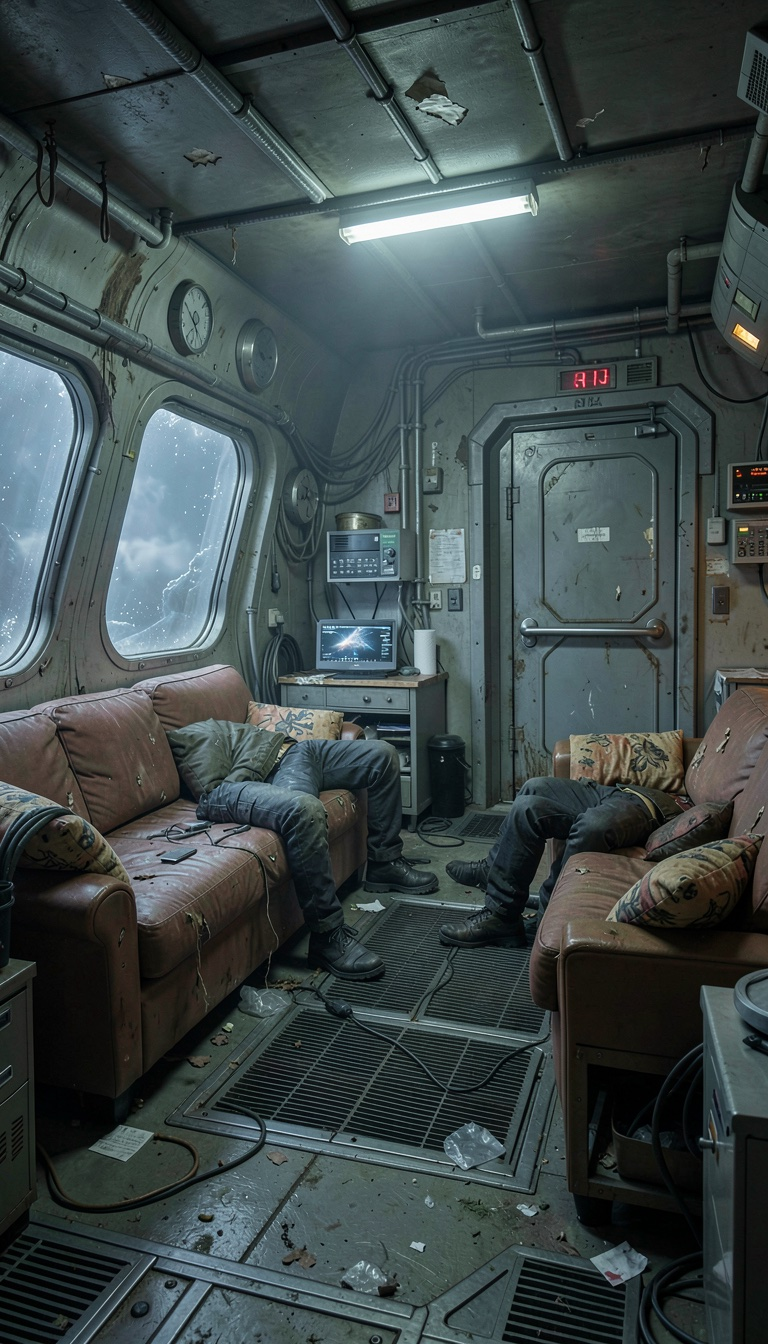
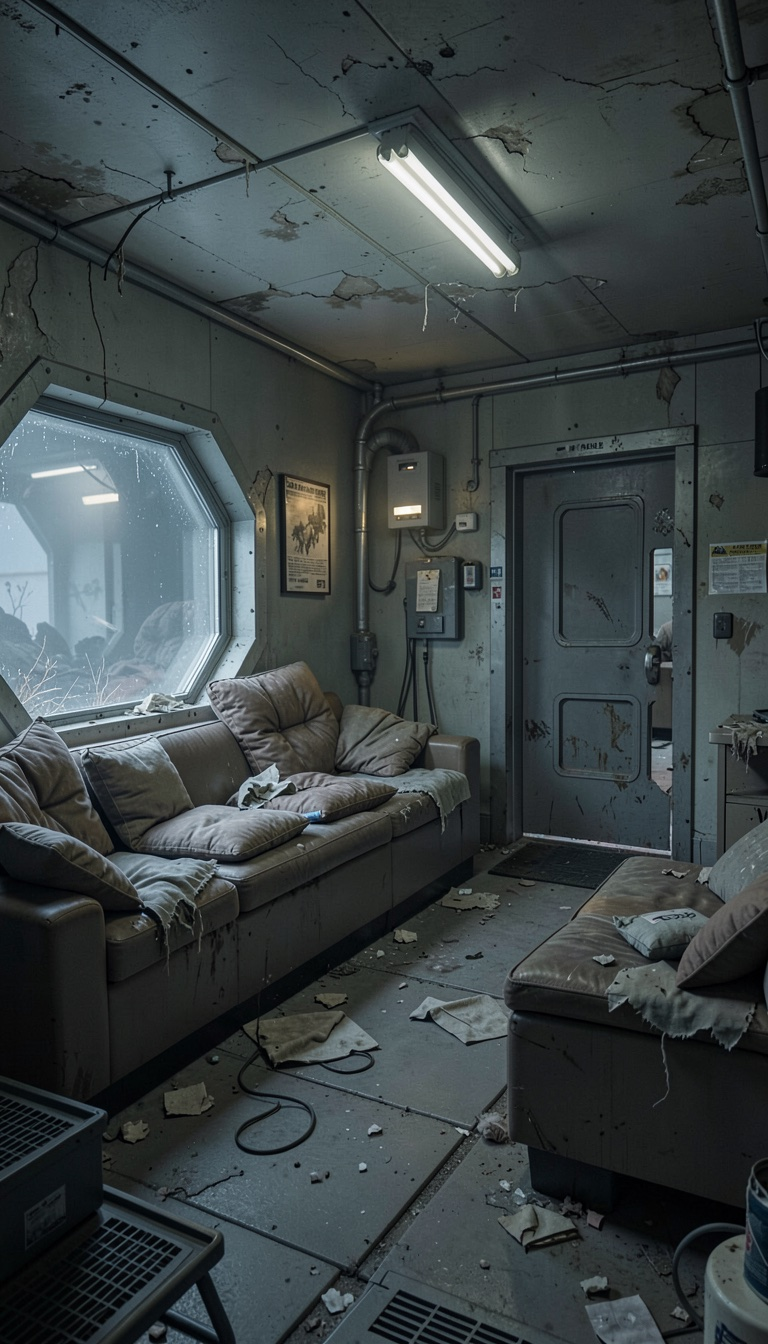
Refresh Awake crew lounge media

diff --git a/gms/2d/awake/js/game.js b/gms/2d/awake/js/game.js
@@ -6,7 +6,7 @@
 
   const $ = id => document.getElementById(id);
   const DEBUG_META_KEY = "awake.debugMeta.v1";
-  const STATIC_MEDIA_VERSION = "20260516-more-media";
+  const STATIC_MEDIA_VERSION = "20260521-crew-lounge";
   let state = normalizeState(Save.loadState());
   let settings = Save.loadSettings();
   let transitionLocked = false;
@@ -576,25 +576,18 @@
     const token = ++roomMediaToken;
     clearTimeout(transitionTimer);
     transitionLocked = false;
-    // Only flip the fallback img to .visible once its src is the NEW
-    // room's poster and actually painted — otherwise it'd briefly
-    // show the previous room (e.g. hallway flicker on room arrival).
-    // transitionTo's preReveal usually has the new poster loaded by
-    // the time we get here, so this is normally instant.
-    const idleSrc = mediaSrc(room.idleVideo);
-    // Intentionally NOT setting roomVideo.poster — when video.src
-    // changes the element may render the poster image at intrinsic
-    // ratio (object-fit on video posters isn't reliable), which
-    // briefly letterboxes ("video gets thinner then expands"). The
-    // fallback img above provides a reliable bridge instead.
+    // Keep the high-quality room still visible as the settled room view.
+    // The video layer is reserved for transitions/events; showing its first
+    // frame here can briefly resize or letterbox during source swaps.
     const showFallback = () => {
       if (token !== roomMediaToken) return;
       els.roomFallback.classList.add("visible");
     };
-    if (els.roomFallback.getAttribute("src") !== room.poster) {
+    const posterSrc = mediaSrc(room.poster);
+    if (els.roomFallback.getAttribute("src") !== posterSrc) {
       els.roomFallback.classList.remove("visible");
       els.roomFallback.addEventListener("load", showFallback, { once: true });
-      els.roomFallback.src = room.poster;
+      els.roomFallback.src = posterSrc;
       if (els.roomFallback.complete && els.roomFallback.naturalWidth > 0) showFallback();
     } else if (els.roomFallback.complete && els.roomFallback.naturalWidth > 0) {
       showFallback();
@@ -602,24 +595,7 @@
       els.roomFallback.classList.remove("visible");
       els.roomFallback.addEventListener("load", showFallback, { once: true });
     }
-    if (els.roomVideo.dataset.src !== idleSrc) {
-      els.roomVideo.dataset.src = idleSrc;
-      els.roomVideo.src = idleSrc;
-    }
     els.roomVideo.pause();
-    try {
-      els.roomVideo.currentTime = 0;
-    } catch (err) {
-      // Some browsers reject seeking before metadata; the load handler below will settle it.
-    }
-    els.roomVideo.addEventListener("loadeddata", () => {
-      if (token !== roomMediaToken) return;
-      els.roomFallback.classList.remove("visible");
-      try {
-        els.roomVideo.currentTime = 0;
-      } catch (err) {}
-      els.roomVideo.pause();
-    }, { once: true });
   }
 
   function rememberRoomVisit(roomId) {
@@ -1039,8 +1015,9 @@
       // clip loads. Removing .visible later (after the video actually
       // starts playing) bridges the brief blank that follows a
       // video.src swap — the source of the inter-room flicker.
-      if (els.roomFallback.getAttribute("src") !== from.poster) {
-        els.roomFallback.src = from.poster;
+      const fromPosterSrc = mediaSrc(from.poster);
+      if (els.roomFallback.getAttribute("src") !== fromPosterSrc) {
+        els.roomFallback.src = fromPosterSrc;
       }
       els.roomFallback.classList.add("visible");
       els.roomVideo.dataset.src = playbackSrc;
@@ -1088,7 +1065,7 @@
         const preRevealMs = Math.max(0, Math.round((duration - 0.5) * 1000));
         setTimeout(() => {
           if (token !== transitionSequence) return;
-          els.roomFallback.src = to.poster;
+          els.roomFallback.src = mediaSrc(to.poster);
           if (!opts.skipRevealAtEnd) showActionTrays();
         }, preRevealMs);
         transitionTimer = setTimeout(done, Math.round((duration + 0.65) * 1000));
@@ -1225,7 +1202,7 @@
     els.eventOverlay.classList.remove("settling", "video-reveal");
     // Pre-load the reveal video while the player reads the message so
     // the cutscene starts cleanly after they click to continue.
-    els.roomFallback.src = Story.rooms.hallway.poster;
+    els.roomFallback.src = mediaSrc(Story.rooms.hallway.poster);
     els.roomFallback.classList.remove("visible");
     els.roomVideo.dataset.src = mediaSrc(clip);
     els.roomVideo.src = mediaSrc(clip);
@@ -1271,7 +1248,7 @@
     els.eventOverlay.classList.remove("settling", "video-reveal");
     let ready = Promise.resolve();
     if (clip) {
-      els.roomFallback.src = Story.rooms.hallway.poster;
+      els.roomFallback.src = mediaSrc(Story.rooms.hallway.poster);
       els.roomFallback.classList.remove("visible");
       els.roomVideo.dataset.src = mediaSrc(clip);
       els.roomVideo.src = mediaSrc(clip);

diff --git a/gms/2d/awake/index.html b/gms/2d/awake/index.html
@@ -334,7 +334,7 @@
       <p>Each action spends a turn. The hunter arrives when the hidden turn limit is reached; the range changes by difficulty.</p>
       <p>Some task buttons open timed challenge puzzles. Solving one completes the task; timing out costs a turn and leaves it unsolved.</p>
       <p>Easy shows every goal. Medium and hard hide part of the list until you restore a console or find a map cache.</p>
-      <p>Room buttons move through generated transition videos. The first frame is held as the current room still.</p>
+      <p>Room buttons move through generated transition videos. The higher-quality room image is shown once each move settles.</p>
       <p>Version 0.1 tests named room feeds, a shared hallway, grouped transition review, save progress, history, music, and the procedural run shell.</p>
     </div>
   </div>
@@ -349,10 +349,10 @@
 <audio id="music" preload="none"></audio>
 
 <script src="js/puzzles/puzzles.js?v=20260521-merge2048"></script>
-<script src="js/story.js?v=20260521-merge2048"></script>
+<script src="js/story.js?v=20260521-crew-lounge"></script>
 <script src="js/save.js"></script>
 <script src="js/audio.js"></script>
 <script src="js/ui.js"></script>
-<script src="js/game.js?v=20260521-merge2048"></script>
+<script src="js/game.js?v=20260521-crew-lounge"></script>
 </body>
 </html>

diff --git a/gms/2d/awake/js/story.js b/gms/2d/awake/js/story.js
@@ -227,7 +227,7 @@
       kind: "lounge_like",
       template: "observation_deck",
       canStart: true,
-      text: "The crew lounge still tries to be comfortable. The cushions remember bodies the cameras insist were never here.",
+      text: "The crew lounge still tries to be comfortable. Collapsed cushions face the viewport, waiting for a shift change that never comes.",
     }],
     ["sleep_pods", {
       name: "Sleep Pods",

diff --git a/gms/2d/awake/gen_images.py b/gms/2d/awake/gen_images.py
@@ -23,7 +23,8 @@ LOG_PATH = os.path.join(HERE, "gen_images.log")
 STYLE = (
     "cinematic realistic sci-fi horror concept art, premium mobile game background, "
     "portrait composition, deep spatial depth, volumetric emergency lighting, high detail, "
-    "beautiful but unsettling, no people, no readable text, no watermark, no logo"
+    "beautiful but unsettling, empty room, no people, no human remains, no body parts, "
+    "no arms, no legs, no readable text, no watermark, no logo"
 )
 
 ROOM_KIND_HINTS = {